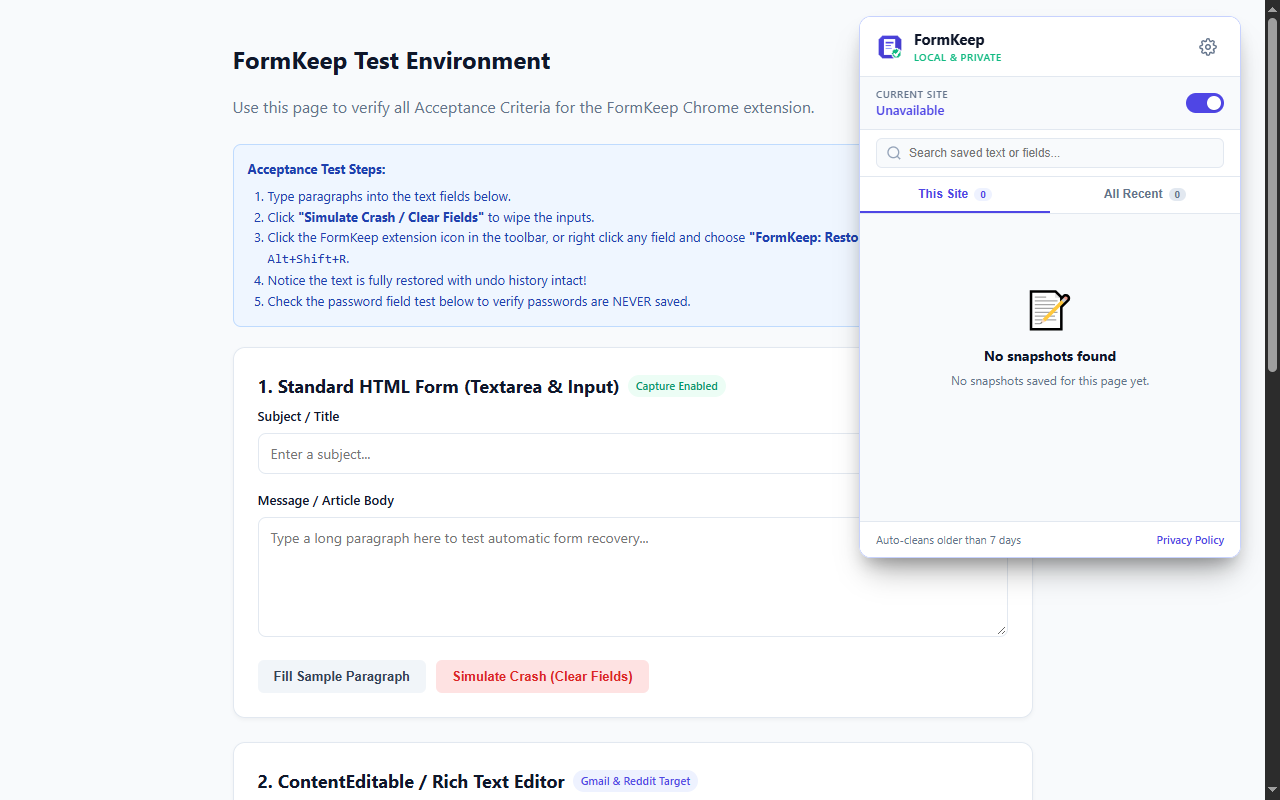
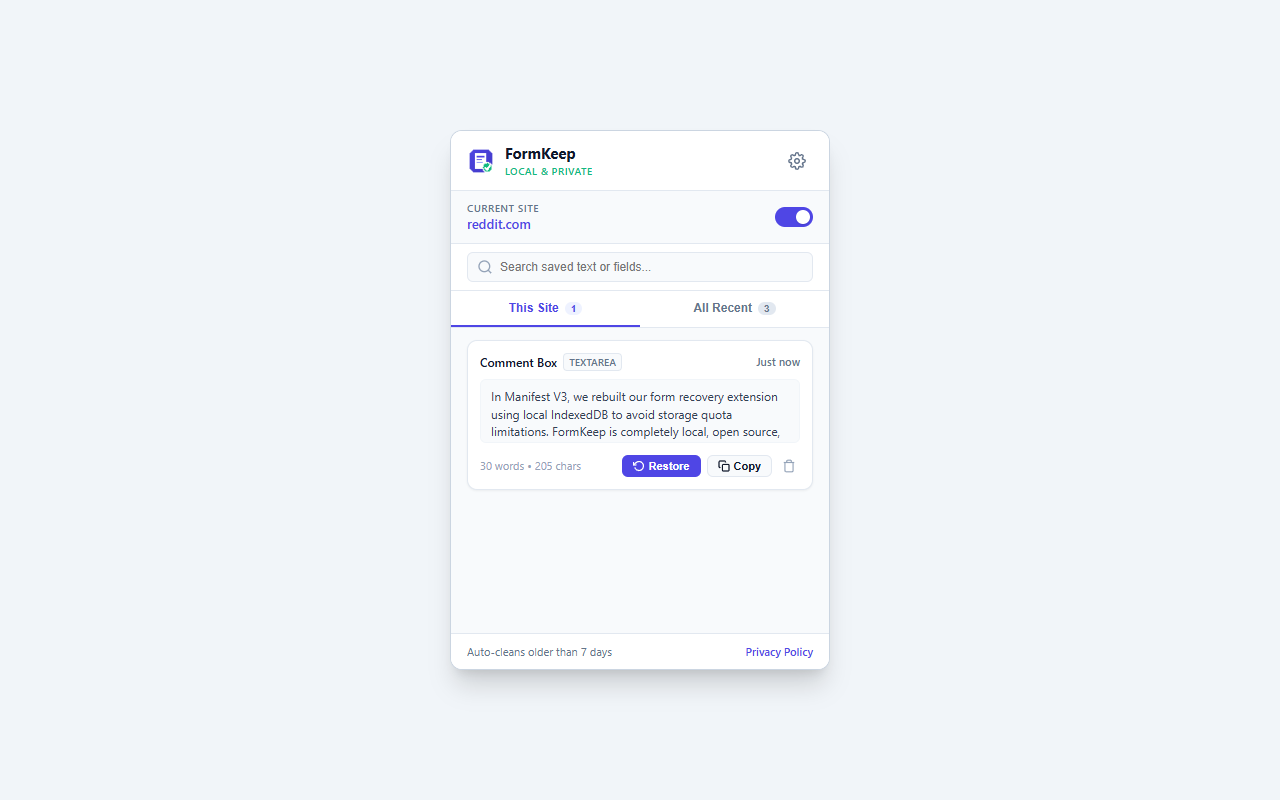
assets: replace screenshots 1 and 3 with real in-browser captures of running extension

diff --git a/options/options.css b/options/options.css
@@ -28,16 +28,16 @@ body {
   font-family: -apple-system, BlinkMacSystemFont, "Segoe UI", Roboto, Helvetica, Arial, sans-serif;
   color: var(--text-main);
   background-color: var(--bg-page);
-  line-height: 1.5;
-  padding: 30px 20px;
+  line-height: 1.45;
+  padding: 16px 20px;
 }
 
 .settings-container {
-  max-width: 680px;
+  max-width: 720px;
   margin: 0 auto;
   display: flex;
   flex-direction: column;
-  gap: 24px;
+  gap: 14px;
 }
 
 /* Header */
@@ -45,7 +45,7 @@ body {
   display: flex;
   align-items: center;
   justify-content: space-between;
-  padding-bottom: 20px;
+  padding-bottom: 12px;
   border-bottom: 1px solid var(--border);
 }
 
@@ -56,19 +56,19 @@ body {
 }
 
 .logo-icon {
-  width: 44px;
-  height: 44px;
+  width: 40px;
+  height: 40px;
   border-radius: var(--radius-sm);
 }
 
 .brand h1 {
-  font-size: 20px;
+  font-size: 19px;
   font-weight: 700;
   letter-spacing: -0.3px;
 }
 
 .subtitle {
-  font-size: 13px;
+  font-size: 12.5px;
   color: var(--text-muted);
 }
 
@@ -102,14 +102,14 @@ body {
 .settings-main {
   display: flex;
   flex-direction: column;
-  gap: 20px;
+  gap: 12px;
 }
 
 .card {
   background-color: var(--bg-card);
   border: 1px solid var(--border);
   border-radius: var(--radius);
-  padding: 20px;
+  padding: 15px 18px;
   box-shadow: var(--shadow);
 }
 

diff --git a/popup/popup.js b/popup/popup.js
@@ -77,6 +77,13 @@ function setupEventListeners() {
  */
 async function initCurrentTab() {
   try {
+    const searchParams = new URLSearchParams(window.location.search);
+    if (searchParams.get('site')) {
+      currentHostname = searchParams.get('site').toLowerCase();
+      currentDomainEl.textContent = currentHostname;
+      return;
+    }
+
     const [tab] = await chrome.tabs.query({ active: true, currentWindow: true });
     currentTab = tab;
 
@@ -103,9 +110,10 @@ async function initCurrentTab() {
       } catch (e) {}
     }
 
-    currentDomainEl.textContent = 'Special browser page';
-    document.getElementById('siteControlCard').style.opacity = '0.7';
+    currentDomainEl.textContent = 'All Sites Overview';
+    document.getElementById('siteControlCard').style.opacity = '0.9';
     siteToggle.disabled = true;
+    switchTab('all');
   } catch (err) {
     currentDomainEl.textContent = 'Unavailable';
   }

diff --git a/content/content.js b/content/content.js
@@ -11,6 +11,21 @@
   if (window.__formkeep_initialized) return;
   window.__formkeep_initialized = true;
 
+  if (chrome.runtime?.id && document.documentElement) {
+    document.documentElement.dataset.formkeepId = chrome.runtime.id;
+  }
+
+  // Allow test / page scripts to request tab opens via service worker
+  window.addEventListener('message', (event) => {
+    if (!event.data || !event.data.type) return;
+    if (event.data.type === 'FORMKEEP_CMD_OPEN_OPTIONS' && chrome.runtime?.id) {
+      chrome.runtime.sendMessage({ type: 'FORMKEEP_OPEN_OPTIONS' });
+    }
+    if (event.data.type === 'FORMKEEP_CMD_OPEN_POPUP' && chrome.runtime?.id) {
+      chrome.runtime.sendMessage({ type: 'FORMKEEP_OPEN_POPUP' });
+    }
+  });
+
   const currentHostname = window.location.hostname.toLowerCase();
   let isSiteDisabled = false;
   let lastFocusedElement = null;

diff --git a/background/service-worker.js b/background/service-worker.js
@@ -179,6 +179,18 @@ chrome.runtime.onMessage.addListener((message, sender, sendResponse) => {
           break;
         }
 
+        case 'FORMKEEP_OPEN_OPTIONS': {
+          const tab = await chrome.tabs.create({ url: chrome.runtime.getURL('options/options.html') });
+          sendResponse({ success: true, tabId: tab.id });
+          break;
+        }
+
+        case 'FORMKEEP_OPEN_POPUP': {
+          const tab = await chrome.tabs.create({ url: chrome.runtime.getURL('popup/popup.html') });
+          sendResponse({ success: true, tabId: tab.id });
+          break;
+        }
+
         case 'FORMKEEP_RUN_CLEANUP': {
           const { retentionDays = DEFAULT_RETENTION_DAYS } = await chrome.storage.local.get('retentionDays');
           const removed = await cleanupOldEntries(message.retentionDays || retentionDays);

diff --git a/popup/popup.css b/popup/popup.css
@@ -569,3 +569,25 @@ input:checked + .slider:before {
 .hidden {
   display: none !important;
 }
+
+/* Responsive presentation when opened in full browser tab/window */
+@media (min-width: 600px) {
+  body {
+    width: 100vw;
+    height: 100vh;
+    display: flex;
+    align-items: center;
+    justify-content: center;
+    background-color: #f1f5f9;
+  }
+  .popup-container {
+    width: 380px;
+    height: 540px;
+    background: #ffffff;
+    border-radius: 12px;
+    box-shadow: 0 20px 25px -5px rgba(0, 0, 0, 0.15), 0 8px 10px -6px rgba(0, 0, 0, 0.1);
+    border: 1px solid #cbd5e1;
+    overflow: hidden;
+  }
+}
+
